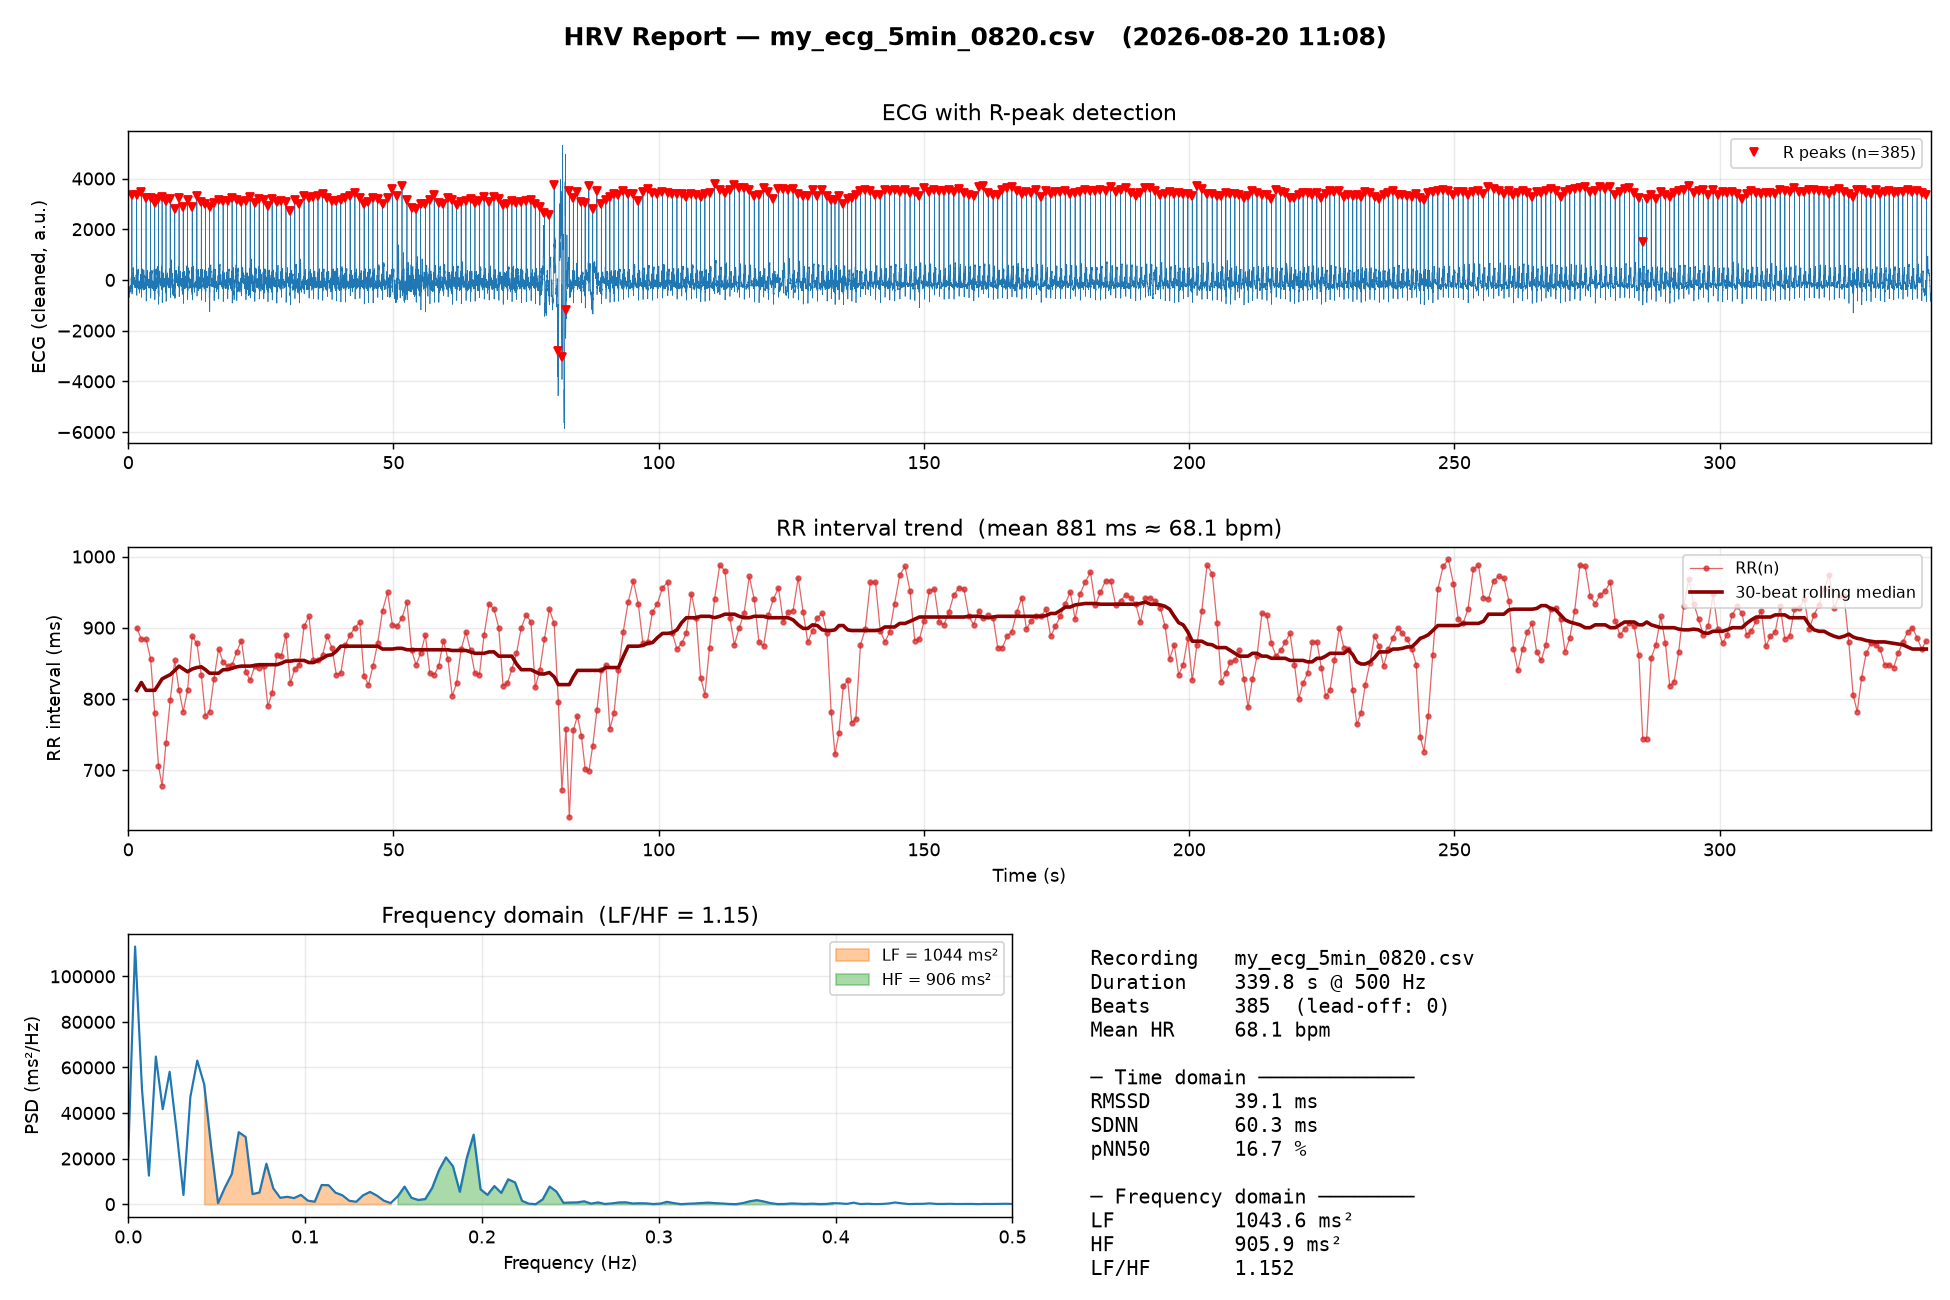
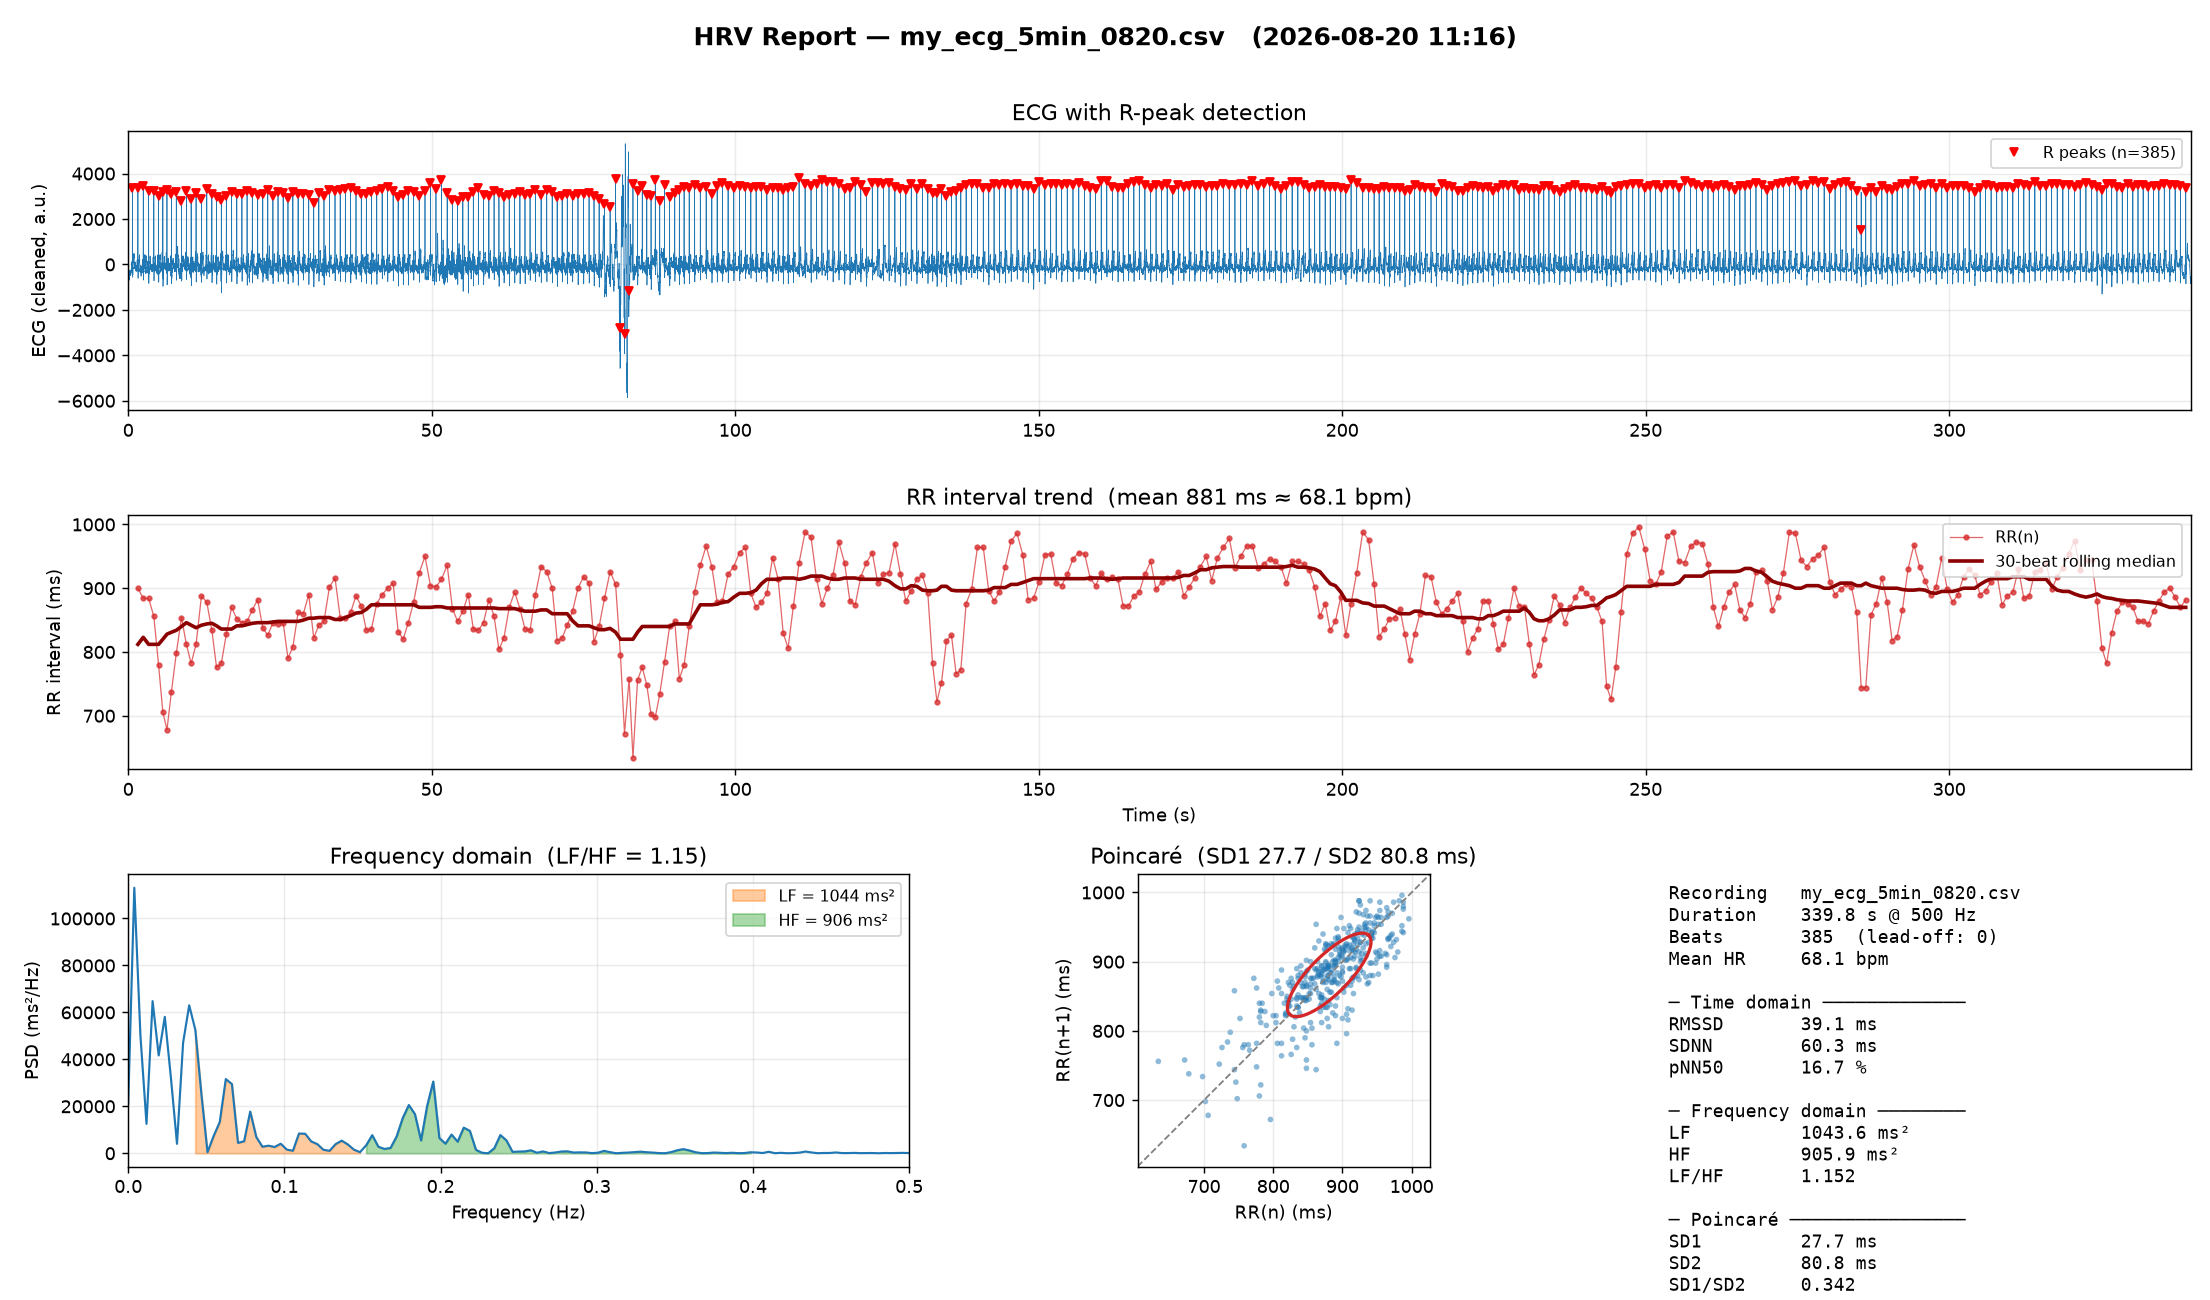
Add Poincaré panel to full HRV report

diff --git a/make_hrv_report.py b/make_hrv_report.py
@@ -47,10 +47,14 @@ def main() -> None:
     hf = hf_["HRV_HF"].iloc[0]
     lfhf = hf_["HRV_LFHF"].iloc[0]
     mean_hr = 60000 / rr.mean()
+    # Poincaré SD1/SD2（直接由 RR 序列計算）
+    sd1 = np.std(np.diff(rr), ddof=1) / np.sqrt(2)
+    sd2 = np.std(rr[1:] + rr[:-1], ddof=1) / np.sqrt(2)
 
-    # ---- 圖：2x2 版面 ----
-    fig = plt.figure(figsize=(15, 10))
-    gs = fig.add_gridspec(3, 2, height_ratios=[1.1, 1, 1])
+    # ---- 圖：上兩排跨欄 + 底排三格 ----
+    fig = plt.figure(figsize=(17, 10))
+    gs = fig.add_gridspec(3, 3, height_ratios=[1.1, 1, 1.15],
+                          width_ratios=[1.1, 1, 0.75])
 
     # (1) ECG 全程 + R 波（上排跨兩欄）
     ax1 = fig.add_subplot(gs[0, :])
@@ -95,8 +99,27 @@ def main() -> None:
     ax3.legend(fontsize=9)
     ax3.grid(alpha=0.25)
 
-    # (4) 指標摘要
-    ax4 = fig.add_subplot(gs[2, 1])
+    # (4) 龐加萊圖
+    ax5 = fig.add_subplot(gs[2, 1])
+    x, y = rr[:-1], rr[1:]
+    ax5.scatter(x, y, s=10, alpha=0.5, color="tab:blue", edgecolors="none")
+    lim = [min(x.min(), y.min()) - 30, max(x.max(), y.max()) + 30]
+    ax5.plot(lim, lim, "--", color="gray", lw=1)
+    m = rr.mean()
+    th = np.linspace(0, 2 * np.pi, 100)
+    c45, s45 = np.cos(np.pi / 4), np.sin(np.pi / 4)
+    ex = m + sd2 * np.cos(th) * c45 - sd1 * np.sin(th) * s45
+    ey = m + sd2 * np.cos(th) * s45 + sd1 * np.sin(th) * c45
+    ax5.plot(ex, ey, color="tab:red", lw=1.8)
+    ax5.set_xlim(lim); ax5.set_ylim(lim)
+    ax5.set_aspect("equal")
+    ax5.set_xlabel("RR(n) (ms)")
+    ax5.set_ylabel("RR(n+1) (ms)")
+    ax5.set_title(f"Poincaré  (SD1 {sd1:.1f} / SD2 {sd2:.1f} ms)")
+    ax5.grid(alpha=0.25)
+
+    # (5) 指標摘要
+    ax4 = fig.add_subplot(gs[2, 2])
     ax4.axis("off")
     summary = (
         f"Recording   {args.csv}\n"
@@ -110,10 +133,14 @@ def main() -> None:
         f"\n─ Frequency domain ────────\n"
         f"LF          {lf:.1f} ms²\n"
         f"HF          {hf:.1f} ms²\n"
-        f"LF/HF       {lfhf:.3f}"
+        f"LF/HF       {lfhf:.3f}\n"
+        f"\n─ Poincaré ────────────────\n"
+        f"SD1         {sd1:.1f} ms\n"
+        f"SD2         {sd2:.1f} ms\n"
+        f"SD1/SD2     {sd1 / sd2:.3f}"
     )
-    ax4.text(0.05, 0.95, summary, transform=ax4.transAxes, va="top",
-             family="monospace", fontsize=11)
+    ax4.text(0.02, 0.97, summary, transform=ax4.transAxes, va="top",
+             family="monospace", fontsize=10)
 
     fig.suptitle(f"HRV Report — {args.csv}   ({time.strftime('%Y-%m-%d %H:%M')})",
                  fontsize=14, fontweight="bold")
@@ -145,6 +172,12 @@ pNN50  : {pnn50:.1f} %
 LF (0.04–0.15 Hz) : {lf:.1f} ms²
 HF (0.15–0.40 Hz) : {hf:.1f} ms²
 LF/HF             : {lfhf:.3f}
+
+龐加萊圖
+--------
+SD1     : {sd1:.1f} ms
+SD2     : {sd2:.1f} ms
+SD1/SD2 : {sd1 / sd2:.3f}
 
 輸出: {png}
 """)
